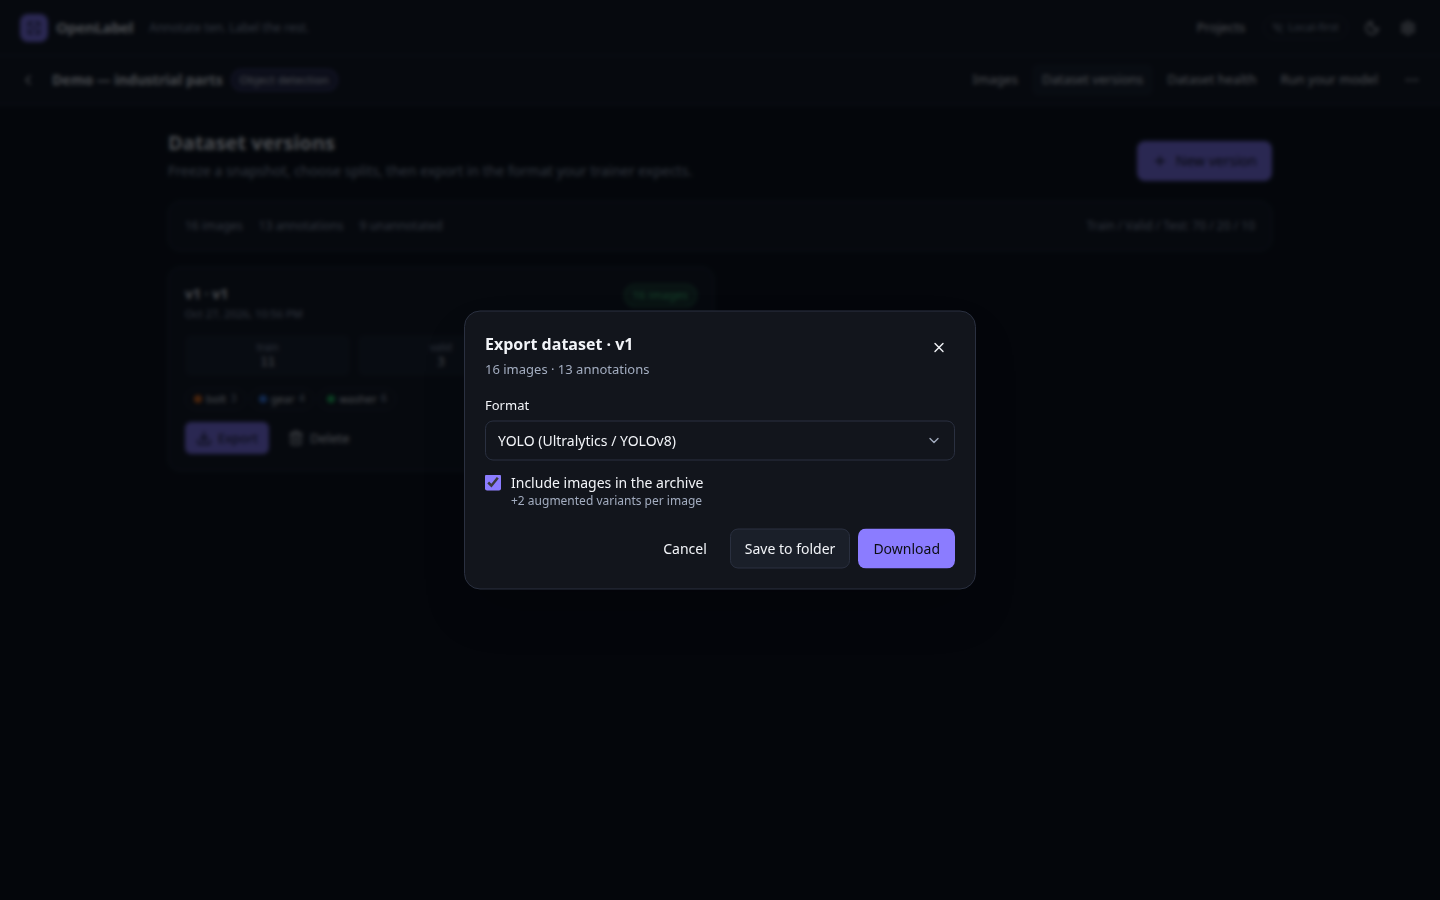
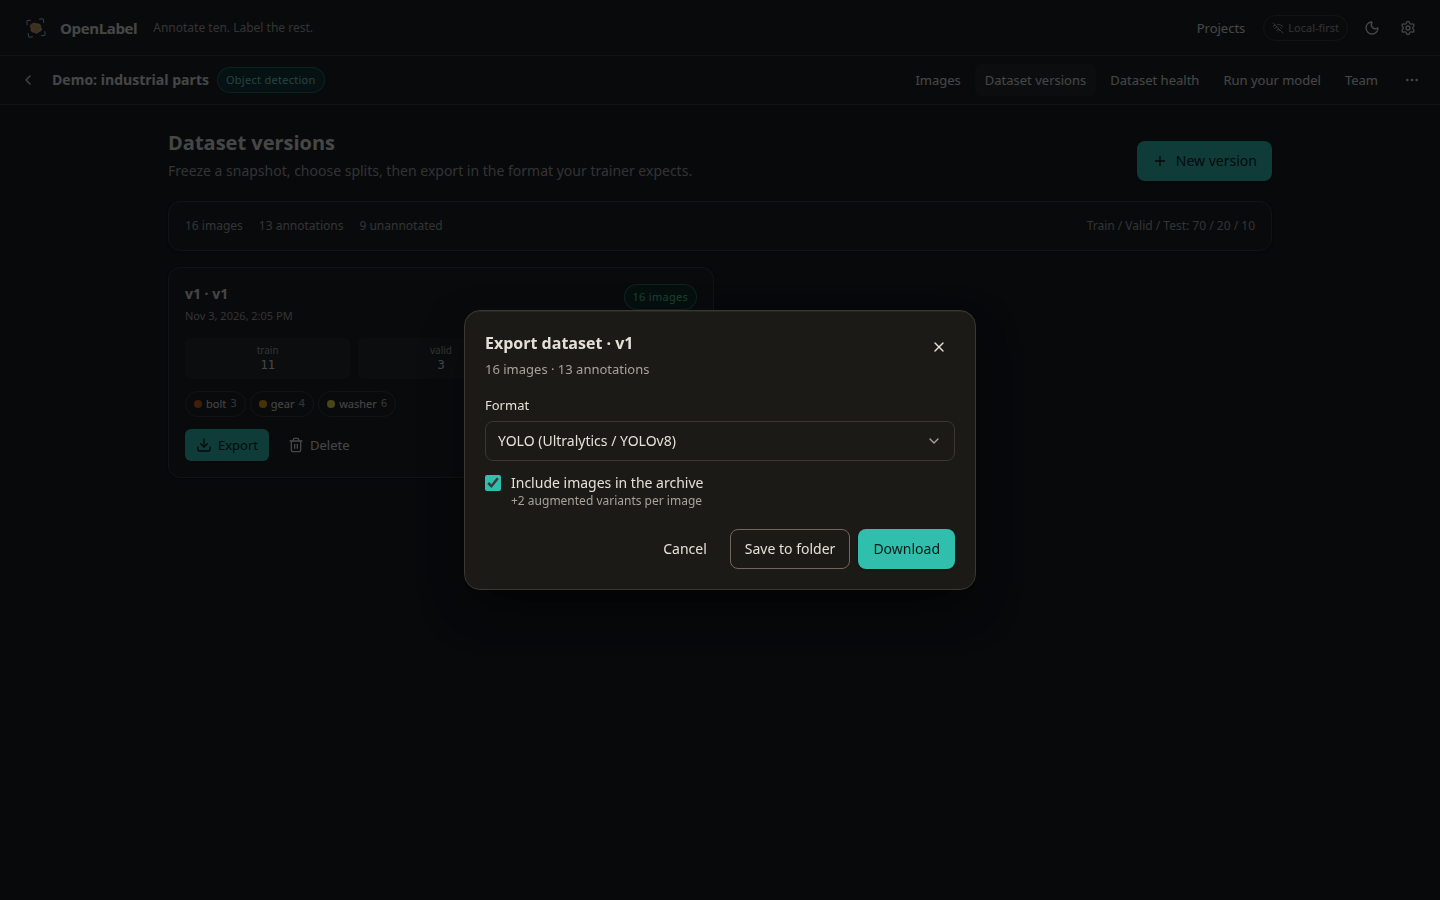
docs(readme): screenshots from the current build, plus team and deploy
The gallery still showed the pre-redesign UI: a dashboard without the progress
steps, a studio without the Auto Label panel beside the canvas, and no Team or
Run your model screen at all. Every shot is regenerated from the demo dataset
in the dark theme, and team plus deploy are new.

scripts/readme-shots.mjs drives the real flows (train, auto-label, freeze a
version, pair two tabs) so regenerating the images after a UI change is one
command instead of hand-stitched screenshots that rot again.

The feature list no longer claims multi-user review is roadmap-only: it
describes peer pairing, the sync file, and the shared work split that shipped
in 0.3, and mentions resize handles, exact X/Y/W/H editing, and A/D image
navigation. Shortcut rows follow the in-app sheet.

diff --git a/README.md b/README.md
@@ -14,7 +14,7 @@
 Annotate ten examples, train a small model in your browser, label the rest, and
 export a dataset, without an account, a server, or an upload.
 
-OpenLabel is an early-stage (0.1.0) open-source project. The workflow is
+OpenLabel is an early-stage (0.3.0) open-source project. The workflow is
 usable, but the data schema and internal APIs may change before 1.0.
 
 ---
@@ -45,13 +45,21 @@ that turns a handful of labels into a reviewable dataset.
 
 ## Screenshots
 
+All shots are the dark theme on the demo dataset, captured from the current
+build. Regenerate them after a UI change with `node scripts/readme-shots.mjs`
+(needs the dev server on port 4173).
+
 | Studio + Auto Label | Dataset health |
 | --- | --- |
 | ![Annotation studio with few-shot suggestions](docs/assets/studio-autolabel.png) | ![Dataset health report](docs/assets/health.png) |
 
-| Projects | Export |
+| Team pairing and work split | Projects |
 | --- | --- |
-| ![Project dashboard](docs/assets/dashboard.png) | ![Export dialog](docs/assets/export.png) |
+| ![Team page with paired devices and the work split](docs/assets/team.png) | ![Project dashboard](docs/assets/dashboard.png) |
+
+| Export | Run your model |
+| --- | --- |
+| ![Export dialog](docs/assets/export.png) | ![Model inference with latency](docs/assets/deploy.png) |
 
 ---
 
@@ -78,6 +86,17 @@ openlabel
 The package ships a `bin` entry, so `-g` puts `openlabel` on your PATH. Without
 `-g`, npm only links the binary into the local `node_modules/.bin`, which your
 shell does not see.
+
+Keep it current:
+
+```bash
+openlabel update
+```
+
+That asks npm for the newest release, prints what it found, and after one
+confirmation installs it. `openlabel update --check` reports without installing,
+and `--yes` skips the question for scripts. The running `openlabel` keeps
+serving the old code until you restart it.
 
 Serve to other machines on your network: `openlabel --host 0.0.0.0`.
 
@@ -157,7 +176,9 @@ flowchart LR
    pass; keypoint projects place learned layout priors.
 6. **Review.** Every prediction carries a score. Accepted predictions are
    stored as auto-labeled annotations; corrections become human labels and
-   training data for the next run.
+   training data for the next run. When several people share the project, the
+   Team page splits the images between devices and the work converges without a
+   server.
 7. **Repeat or export.** Retrain when the metrics or the review queue warrants
    it, freeze a dataset version with its split, preprocessing, and augmentation
    settings, then export in a standard format.
@@ -172,7 +193,9 @@ flowchart LR
   skeletons, and image-level classification.
 - **Annotation workspace.** Zoomable canvas, box/polygon/freehand/wand tools,
   class colors, per-class keypoint skeletons, undo/redo, and keyboard placement
-  and nudging.
+  and nudging. Resize handles win over the active tool so a fresh box can be
+  fixed without switching tools, the inspector accepts exact X/Y/W/H, and
+  drawing tools show full-length crosshair guides for alignment.
 - **Batch import.** Thumbnails, dimensions, MIME type, perceptual hashes for
   duplicate detection, and compact image descriptors.
 - **Deterministic splits.** Default 70/20/10 split with per-image overrides and
@@ -191,10 +214,20 @@ flowchart LR
 - **Native-speed features.** The pixel-bound stage runs in a 23 KiB
   Rust/WebAssembly module, with the TypeScript implementation kept as the
   reference and fallback. See [docs/ENGINE.md](docs/ENGINE.md).
-- **Offline team collaboration.** Pair devices with an invite link, claim a slice
-  of the images, and let annotations and pixels converge without any server.
-  Devices that are never online together can still exchange a sync file. See
+- **Offline team collaboration.** Pair a device with a one-click invite link
+  (the room lives on your own `openlabel` instance, so no third party sees it),
+  exchange manual codes across networks, or merge a sync file when two devices
+  are never online together. Paired devices exchange images over the same
+  connection, chunked with retries and verified against each SHA-256, so a
+  joining device ends up with a complete local copy. See
   [docs/COLLABORATION.md](docs/COLLABORATION.md).
+- **A shared work split.** Team members claim images in batches, release them,
+  and mark them done. Claims live in the replicated state, not a server, so the
+  same counts converge on every device. Joined projects stay on the home page
+  with a Rejoin action.
+- **Model at hand.** The Run your model page scores any image with the trained
+  model, reports latency, and downloads the model as plain JSON with a scoring
+  snippet, so the few-shot predictor can be reproduced outside the app.
 - **Lighthouse 100.** Performance, accessibility, best practices, and SEO score
   100 on the mobile and desktop presets. The UI uses the React API through
   Preact's compatibility layer to keep the framework payload at 22 kB gzip. See
@@ -293,9 +326,10 @@ in-app shortcut sheet is the source of truth if a binding changes.
 | Polygon tool | `P` |
 | Keypoint tool | `K` |
 | Freehand tool | `F` |
-| Magic-wand tool | `W` |
+| Smart select (flood fill, box prompt) | `W` |
 | Pan tool | `H` |
 | Class 1–9 | `1` … `9` |
+| Previous / next image | `A` / `D`, or `[` / `]` |
 | Temporarily pan | Hold `Space` while dragging |
 | Zoom in / out | `+` / `-`, or mouse wheel / trackpad pinch |
 | Fit image to viewport | `0` |
@@ -478,7 +512,7 @@ desktop tool where the platform allows it.
 | Zero-upload | yes | no | yes |
 | Auto-labeling | no | hosted model | on-device few-shot model |
 | Folder import/export | native | n/a | File System Access API (Chromium) with upload fallback |
-| Multi-user review | no | yes | not yet (roadmap) |
+| Multi-user review | no | yes | offline peer pairing, claim and mark-done split |
 | Accessibility | varies | varies | WCAG 2.2 AA target, tested with axe + keyboard E2E |
 | Updates | manual | automatic | automatic, versioned by the service worker |
 
